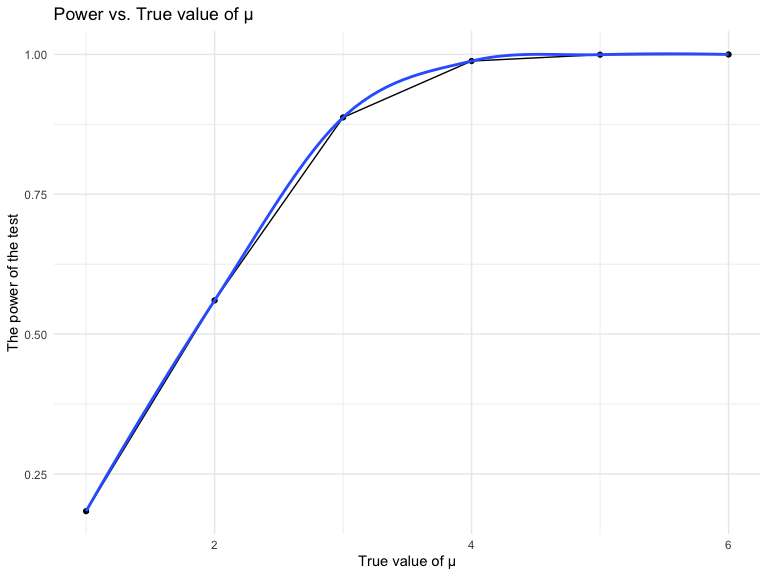
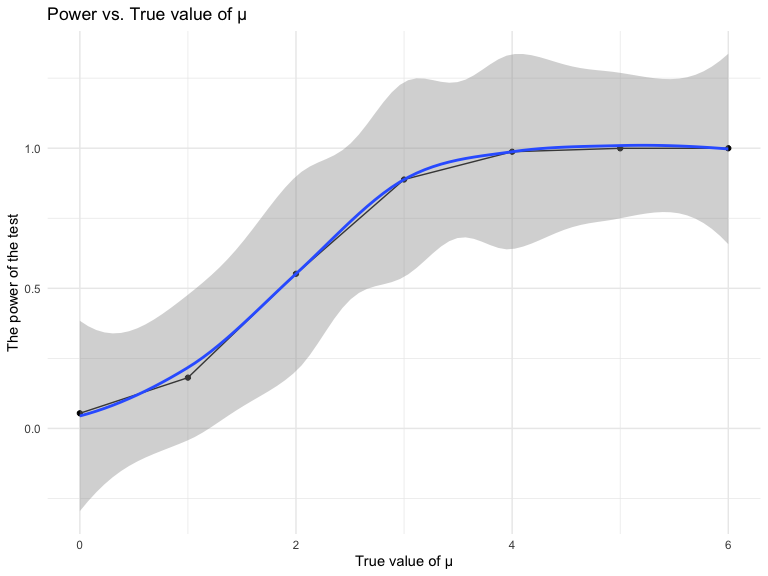
finish problem2

diff --git a/p8105_hw5_jl6647.md b/p8105_hw5_jl6647.md
@@ -57,6 +57,7 @@ library(plotly)
 
 ``` r
 library(broom)
+library(purrr)
 
 knitr::opts_chunk$set(
     echo = TRUE,
@@ -81,10 +82,58 @@ theme_set(theme_minimal() + theme(legend.position = "bottom"))
 
 ## Problem 2
 
+Create a tidy dataframe containing data from all participants, including
+the subject ID, arm, and observations over time
+
 ``` r
-file_names = list.files(path = "data", pattern = "csv", full.names = TRUE)
-df = data.frame(file_name = file_names)
+all_data =
+ tibble(filename = list.files("./data/"))
+readcsv = 
+  function(csv, path="./data/"){
+ paste(path,csv,sep="/") |> 
+   read.csv()
+  }
+data_df =
+  all_data |> 
+  mutate(raw_results = map(all_data$filename, readcsv)) |> 
+  # unnest for easier plot
+  unnest(raw_results) |> 
+  # remove .csv part
+  mutate(filename_wo_csv = map_chr(.x = filename, ~ unlist(str_split(.x, "\\.") )[[1]] ) ) |> 
+  # split by '_' to extract arm and subject id
+  mutate(
+    arm = map_chr(.x = filename_wo_csv, ~ unlist(str_split(.x, "_") )[[1]] )) |> 
+  mutate(
+    subject_id = map_chr(.x = filename_wo_csv, ~ unlist(str_split(.x, "_") )[[2]] ))
 ```
+
+Make a spaghetti plot showing observations on each subject over time,
+and comment on differences between groups
+
+``` r
+pivot_longer =
+  data_df |> 
+  pivot_longer(week_1:week_8,
+               names_to = "week",
+               names_prefix = "week_",
+               values_to = "value") |> 
+  mutate(week = as.integer(week))
+plot =
+  pivot_longer |> 
+  group_by(filename_wo_csv) |> 
+  ggplot(aes(x = week, y = value, color = interaction(arm, subject_id))) +
+    geom_line()
+plot
+```
+
+<img src="p8105_hw5_jl6647_files/figure-gfm/unnamed-chunk-3-1.png" width="90%" />
+
+From this plot, we can find that the observation for all patients in
+experimental arm are increasing over eight weeks,but there appears to be
+a noticeable difference between the experimental and control groups,
+with the experimental group showing a more positive trend over time
+compared to the control group. The observation for all patients in
+experimental arm are increasing over eight weeks.
 
 ## Problem 3
 
@@ -121,7 +170,7 @@ Repeat the process for μ=1,2,3,4,5,6 (also replicate 5000 times)
 ``` r
 sim_results_df = 
   expand_grid(
-    true_mean = c(1, 2, 3, 4, 5, 6),
+    true_mean = c(0, 1, 2, 3, 4, 5, 6),
     iter = 1:5000
   ) |> 
   mutate(
@@ -148,8 +197,10 @@ sim_results_df |>
 
     ## `geom_smooth()` using method = 'loess' and formula = 'y ~ x'
 
-<img src="p8105_hw5_jl6647_files/figure-gfm/unnamed-chunk-5-1.png" width="90%" />
-From the plot we can see that
+<img src="p8105_hw5_jl6647_files/figure-gfm/unnamed-chunk-6-1.png" width="90%" />
+
+From the plot we can see that the power of the test increases as the
+effect size increases from 0 to 6
 
 ``` r
 sim_results_df |>  
@@ -164,6 +215,31 @@ sim_results_df |>
 
     ## `geom_smooth()` using method = 'loess' and formula = 'y ~ x'
 
-<img src="p8105_hw5_jl6647_files/figure-gfm/unnamed-chunk-6-1.png" width="90%" />
+<img src="p8105_hw5_jl6647_files/figure-gfm/unnamed-chunk-7-1.png" width="90%" />
+
+From this plot we can find that the relationship between the average
+estimate value of μ and the true value of μ is positive correlation
 
 ##### Make a second plot (or overlay on the first) the average estimate of μ̂ only in samples for which the null was rejected on the y axis and the true value of μ on the x axis. Is the sample average of μ̂ across tests for which the null is rejected approximately equal to the true value of μ? Why or why not?
+
+``` r
+sim_results_df |> 
+  filter(p_value < 0.05) |> 
+  group_by(true_mean) |> 
+  summarise(est_mean = mean(mu_hat)) |> 
+  ggplot(aes(x = true_mean, y = est_mean)) +
+  geom_line() +
+  geom_point() +
+  geom_smooth() +
+  theme_minimal() +
+  labs(title = "The average estimate value of μ (p_value < 0.05) vs. True value of μ", x = "True value of μ", y = "The average estimate value of μ")
+```
+
+    ## `geom_smooth()` using method = 'loess' and formula = 'y ~ x'
+
+<img src="p8105_hw5_jl6647_files/figure-gfm/unnamed-chunk-8-1.png" width="90%" />
+
+From the plot, we can find that the sample average of μ̂ across tests for
+which the null is rejected (p_value \< 0.05) is not approximately equal
+to the true value of μ. So the null will be rejected under the
+confidence interval.
